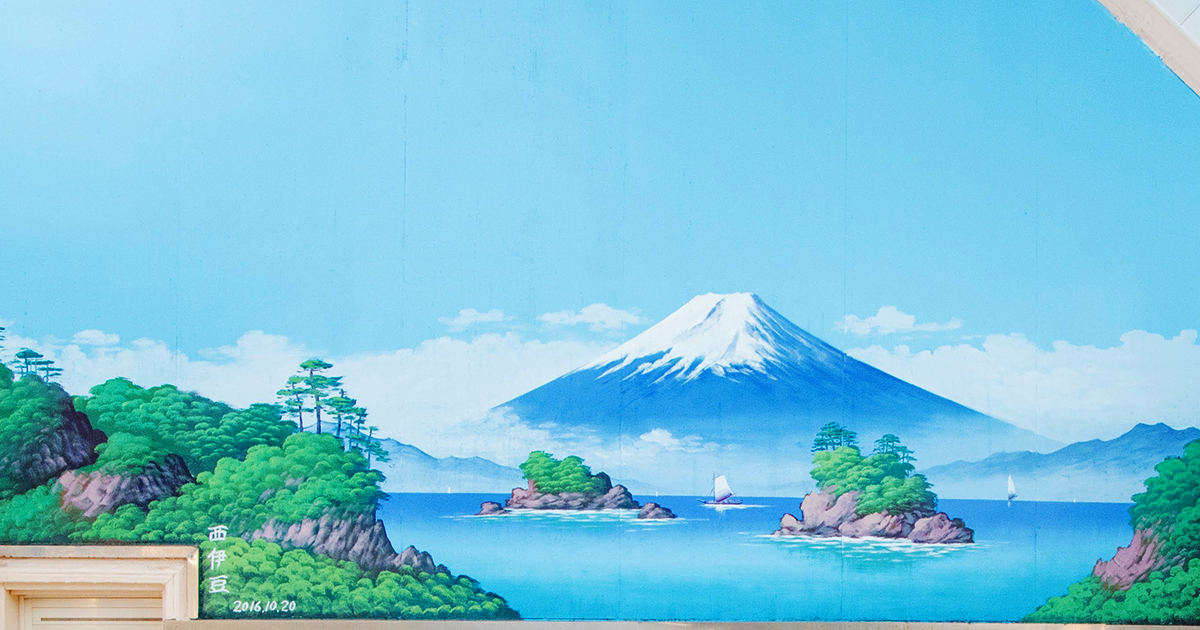
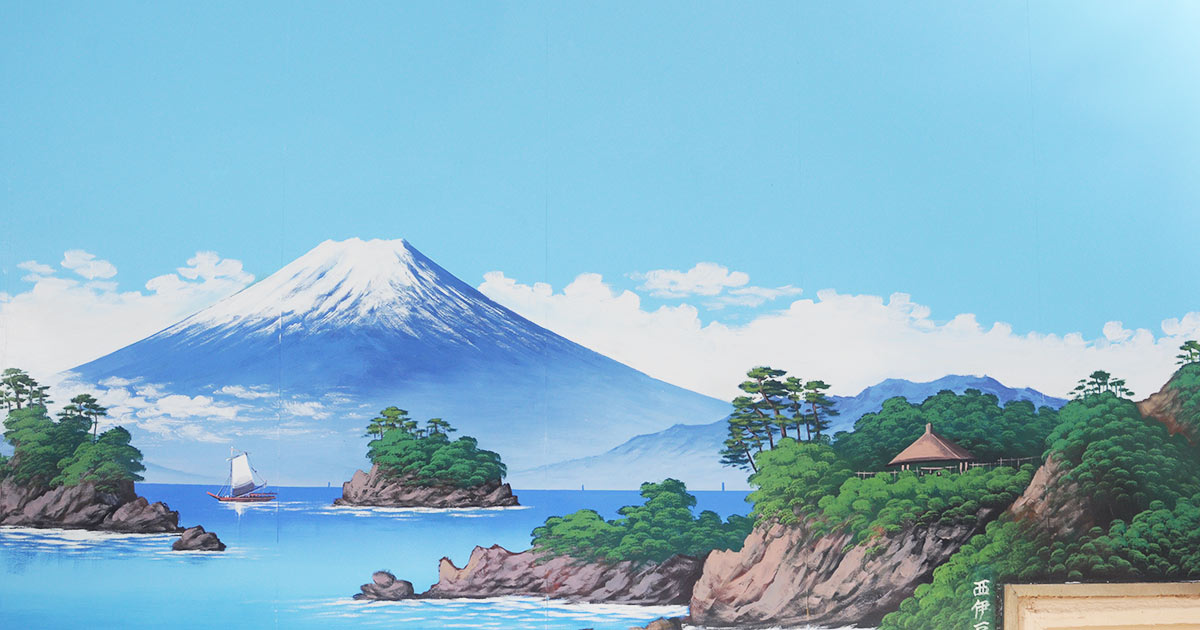
メインビジュアル差し替え

diff --git a/build/styles/article.css b/build/styles/article.css
@@ -1,1 +1,1 @@
-@charset 'UTF-8';.MainVisual{position:relative;padding-bottom:30%;background-position:center 0;-webkit-background-size:cover;background-size:cover}@media screen and (max-width:700px){.MainVisual{padding-bottom:80%;-webkit-background-size:200% 200%;background-size:200%}}.MainVisual__title{font-family:'Kokoro',YuMincho,'Yu Mincho',serif;font-size:5rem;position:absolute;top:0;left:0;display:-webkit-box;display:-webkit-flex;display:flex;width:100%;height:100%;text-align:center;color:#fff;-webkit-box-pack:center;-webkit-justify-content:center;justify-content:center;-webkit-box-align:center;-webkit-align-items:center;align-items:center}@media screen and (max-width:700px){.MainVisual__title{font-size:4rem}}.MainVisual__title>a{color:#fff}.MainVisual__image{width:100%;padding-bottom:20%}@media screen and (max-width:700px){.CategoryNavigation{position:relative;overflow:hidden;height:100px}}.CategoryNavigation__items{display:-webkit-box;display:-webkit-flex;display:flex;margin:30px auto 50px;-webkit-box-align:center;-webkit-align-items:center;align-items:center;-webkit-box-pack:center;-webkit-justify-content:center;justify-content:center}@media screen and (max-width:700px){.CategoryNavigation__items{margin:30px 20px;white-space:nowrap}}.CategoryNavigation__item{margin:0 20px}@media screen and (max-width:700px){.CategoryNavigation__item{margin-right:20px;margin-left:0}.CategoryNavigation__item:last-child{margin-right:0}}.CategoryNavigation__item.is-active>a::after{border-bottom:solid 1px #4a4a4a}.CategoryNavigation__item>a{font-size:1.4rem;display:block;padding:20px 20px 5px;text-align:center}@media screen and (max-width:700px){.CategoryNavigation__item>a{padding:12px 0}}.CategoryNavigation__item>a:link,.CategoryNavigation__item>a:visited{color:#4a4a4a}.CategoryNavigation__item>a::after{display:block;padding-bottom:15px;content:''}.Article__inner{width:800px;margin:0 auto}@media screen and (max-width:800px){.Article__inner{width:auto;margin:0 20px}}.Article__titleWrapper{margin:30px 0}.Article__titleWrapper .SocialButton{margin-top:20px;-webkit-box-pack:center;-webkit-justify-content:center;justify-content:center}.Article__titleInfo{text-align:center;vertical-align:middle;letter-spacing:.1em}.Article__titleCategory{font-size:1.2rem;line-height:1;display:inline-block;margin-right:10px;padding:4px 6px;letter-spacing:0;color:#fff;background-color:#ca6492}.Article__titleCategory--event{background-color:#9b4124}.Article__titleCategory--news{background-color:#1a274b}.Article__titleCategory--interview{background-color:#0b7751}.Article__titleDate{display:inline-block;margin-right:10px;color:#4a4a4a}@media screen and (max-width:700px){.Article__titleDate{margin-right:0}}.Article__titleAuthorName{font-size:1.2rem;display:inline-block;margin-top:20px;color:#4a4a4a}@media screen and (max-width:700px){.Article__titleAuthorName{display:block}}.Article__main p>a,.Article__titleAuthorName>a:link,.Article__titleAuthorName>a:visited,.Article__titleSeriesName>a:link,.Article__titleSeriesName>a:visited,.Article__titleTags>li>a{-webkit-transition:ease .3s;transition:ease .3s;color:#6f6f6f;border-bottom:dashed 1px #aaa}.Article__main p>a:hover,.Article__tableWrapper table td>a:hover,.Article__tableWrapper table th>a:hover,.Article__titleAuthorName>a:link:hover,.Article__titleAuthorName>a:visited:hover,.Article__titleSeriesName>a:link:hover,.Article__titleSeriesName>a:visited:hover,.Article__titleTags>li>a:hover,.Profile__nameJp>a:link:hover,.Profile__nameJp>a:visited:hover{color:#999}.Article__titleSeriesName{display:inline-block;margin-left:10px}.Article__titleTags{font-size:1.2rem;margin-top:15px}.Article__titleTags>li{display:inline-block;margin-right:10px}.Article__titleTags>li>a:before{content:'#';color:#999}.Article__headingLv1{font-family:'Kokoro',YuMincho,'Yu Mincho',serif;font-size:4rem;margin:50px 0;text-align:center;color:#4a4a4a}@media screen and (max-width:700px){.Article__headingLv1{font-size:3rem;margin:20px 0}}.Article__main h2{font-family:'ヒラギノ明朝 ProN W3','HiraMinProN-W3','Yu Mincho','YuMincho',serif;font-size:2.6rem;line-height:1.4;margin:120px 0 60px;color:#4a4a4a}@media screen and (max-width:700px){.Article__main h2{font-size:2rem;margin:40px 0 30px}}.Article__main h3{font-size:2rem;font-weight:700;line-height:1.4;margin:40px 0 30px;color:#4a4a4a}@media screen and (max-width:700px){.Article__main h3{font-size:1.6rem;margin:30px 0 20px}}.Article__main blockquote.message,.Article__main p{line-height:1.875;margin:20px 0 30px;letter-spacing:.1em}.Article__main li,.Article__main p{font-size:1.6rem;color:#4a4a4a}@media screen and (max-width:700px){.Article__main p{font-size:1.4rem}}.Article__main p+.Article__main p{margin-top:-20px}.Article__main p>a{line-height:1.3}.Article__main p.lead,.CategoryNavigation__item>a{font-family:'Yu Gothic',YuGothic,sans-serif}.Article__main li{line-height:1.875;letter-spacing:.1em}@media screen and (max-width:700px){.Article__main li{font-size:1.4rem}}.Article__main li:before{content:'・'}.Article__main blockquote.message,.Article__main li,.Article__main p,.Article__tableWrapper table{font-family:'ヒラギノ明朝 ProN W3','HiraMinProN-W3','Yu Mincho','YuMincho',serif}.Article__main blockquote.message{font-style:italic;position:relative;padding:20px 40px;color:#646464}@media screen and (max-width:700px){.Article__main blockquote.message{font-size:1.4rem;padding:20px 30px}}.Article__main blockquote.message::after,.Article__main blockquote.message::before{font-family:'Georgia',serif;font-size:5rem;line-height:1;position:absolute;color:#e4e4e4}.Article__main blockquote.message::before{top:10px;left:10px;content:'“'}@media screen and (max-width:700px){.Article__main blockquote.message::before{top:0;left:0}}.Article__main blockquote.message::after{right:10px;bottom:-20px;content:'”'}@media screen and (max-width:700px){.Article__main blockquote.message::after{right:0}.Article__tableWrapper{margin-right:-20px;margin-left:-20px}}.Article__tableWrapper table{width:100%;margin-bottom:60px;border-collapse:collapse;color:#4a4a4a;border-top:1px dotted #4a4a4a}@media screen and (max-width:700px){.Article__tableWrapper table{font-size:1.4rem}}.Article__tableWrapper table thead td,.Article__tableWrapper table thead th{border-bottom:2px solid #4a4a4a}.Article__tableWrapper table,.Article__tableWrapper table tbody td,.Article__tableWrapper table tbody th{border-bottom:1px dotted #4a4a4a}.Article__tableWrapper table tbody tr:last-child td,.Article__tableWrapper table tbody tr:last-child th{border:none}.Article__tableWrapper table td,.Article__tableWrapper table th{line-height:1.4;padding:20px}.Article__tableWrapper table td>a,.Article__tableWrapper table th>a,.Profile__nameJp>a:link,.Profile__nameJp>a:visited{-webkit-transition:ease .3s;transition:ease .3s;color:#6f6f6f;border-bottom:dashed 1px #aaa}@media screen and (max-width:700px){.Article__tableWrapper table td,.Article__tableWrapper table th{min-width:80px;padding:20px 10px}}.Article__tableWrapper table th{font-weight:700}.Article__innerImage{margin-bottom:60px}@media screen and (max-width:700px){.Article__innerImage{margin-right:-20px;margin-bottom:30px;margin-left:-20px}}.Article__innerImage>img{width:100%}.Article__caption{font-size:1.4rem;margin-top:10px;color:#999}@media screen and (max-width:700px){.Article__caption{font-size:1.2rem;margin-left:10px}}.Article__photoWrapper{position:relative;overflow:hidden}.Article__photoMain{overflow:hidden;width:100%;padding-bottom:50%;background-repeat:no-repeat;background-position:center;-webkit-background-size:cover;background-size:cover}.Article__photoMain.is-animate{-webkit-animation:mainvisual-animation 4s linear;animation:mainvisual-animation 4s linear}@media screen and (max-width:700px){.Article__photoMain{padding-bottom:100%}.Article__photoMain.is-animate{-webkit-animation:mainvisual-animation 2s linear;animation:mainvisual-animation 2s linear}}.Article__defList{margin:20px 0}.Article__defListRow{font-family:'ヒラギノ明朝 ProN W3','HiraMinProN-W3','Yu Mincho','YuMincho',serif;font-size:1.6rem;line-height:1.875;display:-webkit-box;display:-webkit-flex;display:flex;letter-spacing:.1em;color:#4a4a4a}@media screen and (max-width:700px){.Article__defListRow{font-size:1.4rem;display:block;margin:40px 0}}.Article__defListRow>dd,.Article__defListRow>dt{display:block;padding:20px 0}@media screen and (max-width:700px){.Article__defListRow>dd,.Article__defListRow>dt{padding:0}}.Article__defListRow>dt{font-weight:700;width:200px}.Article__defListRow>dd{-webkit-box-flex:1;-webkit-flex:1;flex:1}h2+.Article__defList,h2+.Article__tableWrapper{margin-top:-30px}@media screen and (max-width:700px){h2+.Article__defList,h2+.Article__tableWrapper{margin-top:-10px}}.Profile{display:-webkit-box;display:-webkit-flex;display:flex;margin:60px 0}@media screen and (max-width:700px){.Profile{text-align:center;-webkit-box-orient:vertical;-webkit-box-direction:normal;-webkit-flex-flow:column nowrap;flex-flow:column nowrap;-webkit-box-align:center;-webkit-align-items:center;align-items:center}}.Profile__photo{width:100px;height:100px;margin-top:15px;margin-right:30px;border-radius:50%;background-color:gray;background-repeat:no-repeat;-webkit-background-size:cover;background-size:cover}@media screen and (max-width:700px){.Profile__photo{width:120px;height:120px;margin-top:0;margin-right:0;margin-bottom:15px}}.Profile__role{font-size:1.2rem;display:inline-block;padding:2px 5px;color:#4a4a4a;border:solid 1px #4a4a4a}.Profile__nameJp{font-size:2.4rem;margin:15px 0;color:#4a4a4a}.Profile__nameJp>a:link,.Profile__nameJp>a:visited{color:#4a4a4a}.Profile__nameSub{font-size:1.6rem;line-height:1.4;margin:-10px 0 15px;color:#4a4a4a}.Profile__job,.Profile__nameEn{display:inline-block}.Profile__job::before{content:' ／'}.Profile__text{font-size:1.4rem;line-height:1.66667;margin:15px 0;letter-spacing:.1em;color:#4a4a4a}.Profile__links,.Profile__text{text-align:left}.Profile__link{display:inline-block;margin-right:15px;margin-bottom:15px}.Profile__link::after{display:inline-block;margin-left:10px;content:'／'}.AuthorPageProfile__link:last-child::after,.Profile__link:last-child::after{display:none}.Profile__link>a{font-size:1.4rem;display:inline-block;padding-left:25px;-webkit-transition:opacity .5s ease;transition:opacity .5s ease;color:#4b4b4b;background-repeat:no-repeat;background-position:left center;-webkit-background-size:18px 18px;background-size:18px}.AuthorPageProfile__link>a:hover,.Profile__link>a:hover{opacity:.7}.Profile__link--facebook>a{background-image:url(../images/standalone/common/ico_facebook.svg)}.Profile__link--twitter>a{background-image:url(../images/standalone/common/ico_twitter.svg)}.Profile__link--instagram>a{background-image:url(../images/standalone/common/ico_instagram.svg)}.Profile__link--web>a{background-image:url(../images/standalone/common/ico_web.svg)}.AuthorPageProfile{display:-webkit-box;display:-webkit-flex;display:flex;width:800px;margin:50px auto;-webkit-box-orient:vertical;-webkit-box-direction:normal;-webkit-flex-flow:column nowrap;flex-flow:column nowrap;-webkit-box-align:center;-webkit-align-items:center;align-items:center}@media screen and (max-width:700px){.AuthorPageProfile{width:auto;margin-right:20px;margin-left:20px}}.AuthorPageProfile__photo{width:200px;height:200px;margin-bottom:15px;border-radius:50%;background-color:gray;background-repeat:no-repeat;-webkit-background-size:cover;background-size:cover}@media screen and (max-width:700px){.AuthorPageProfile__photo{width:150px;height:150px}}.AuthorPageProfile__nameJp{font-family:'Kokoro',YuMincho,'Yu Mincho',serif;font-size:5rem;margin:15px 0;color:#4a4a4a}@media screen and (max-width:700px){.AuthorPageProfile__nameJp{font-size:3.5rem}}.AuthorPageProfile__nameSub{font-size:1.6rem;line-height:1.4;margin:-10px 0 15px;color:#4a4a4a}.AuthorPageProfile__job,.AuthorPageProfile__nameEn{display:inline-block}.AuthorPageProfile__job::before{content:' ／'}.AuthorPageProfile__text{font-size:1.4rem;line-height:1.66667;margin:50px 0;letter-spacing:.1em;color:#4a4a4a}@media screen and (max-width:700px){.AuthorPageProfile__text{margin:30px 0}}.AuthorPageProfile__link{display:inline-block;margin-right:15px;margin-bottom:15px}@media screen and (max-width:700px){.AuthorPageProfile__link{margin-bottom:10px}}.AuthorPageProfile__link::after{display:inline-block;margin-left:10px;content:'／'}.AuthorPageProfile__link>a{font-size:1.4rem;display:inline-block;padding-left:25px;-webkit-transition:opacity .5s ease;transition:opacity .5s ease;color:#4b4b4b;background-repeat:no-repeat;background-position:left center;-webkit-background-size:18px 18px;background-size:18px}.AuthorPageProfile__link--facebook>a{background-image:url(../images/standalone/common/ico_facebook.svg)}.AuthorPageProfile__link--twitter>a{background-image:url(../images/standalone/common/ico_twitter.svg)}.AuthorPageProfile__link--instagram>a{background-image:url(../images/standalone/common/ico_instagram.svg)}.AuthorPageProfile__link--web>a{background-image:url(../images/standalone/common/ico_web.svg)}.Module--fixWidth{width:800px;margin-right:auto;margin-left:auto}@media screen and (max-width:700px){.Module--fixWidth{width:auto;margin:20px}}.Module__heading{font-family:'Kokoro',YuMincho,'Yu Mincho',serif;font-size:4rem;margin:50px 0;text-align:center;color:#4a4a4a}@media screen and (max-width:700px){.Module__heading{font-size:3rem;margin:20px 0}}.Module__headingTextBlock{display:inline-block}.Notice{margin:50px 0 100px}.Notice__text{font-family:'Kokoro',YuMincho,'Yu Mincho',serif;font-size:1.6rem;text-align:center;color:#4a4a4a}
+@charset 'UTF-8';.MainVisual{position:relative;padding-bottom:30%;background-position:center;-webkit-background-size:cover;background-size:cover}@media screen and (max-width:700px){.MainVisual{padding-bottom:80%;-webkit-background-size:200% 200%;background-size:200%}}.MainVisual__title{font-family:'Kokoro',YuMincho,'Yu Mincho',serif;font-size:5rem;position:absolute;top:0;left:0;display:-webkit-box;display:-webkit-flex;display:flex;width:100%;height:100%;text-align:center;color:#fff;-webkit-box-pack:center;-webkit-justify-content:center;justify-content:center;-webkit-box-align:center;-webkit-align-items:center;align-items:center}@media screen and (max-width:700px){.MainVisual__title{font-size:4rem}}.MainVisual__title>a{color:#fff}.MainVisual__image{width:100%;padding-bottom:20%}@media screen and (max-width:700px){.CategoryNavigation{position:relative;overflow:hidden;height:100px}}.CategoryNavigation__items{display:-webkit-box;display:-webkit-flex;display:flex;margin:30px auto 50px;-webkit-box-align:center;-webkit-align-items:center;align-items:center;-webkit-box-pack:center;-webkit-justify-content:center;justify-content:center}@media screen and (max-width:700px){.CategoryNavigation__items{margin:30px 20px;white-space:nowrap}}.CategoryNavigation__item{margin:0 20px}@media screen and (max-width:700px){.CategoryNavigation__item{margin-right:20px;margin-left:0}.CategoryNavigation__item:last-child{margin-right:0}}.CategoryNavigation__item.is-active>a::after{border-bottom:solid 1px #4a4a4a}.CategoryNavigation__item>a{font-size:1.4rem;display:block;padding:20px 20px 5px;text-align:center}@media screen and (max-width:700px){.CategoryNavigation__item>a{padding:12px 0}}.CategoryNavigation__item>a:link,.CategoryNavigation__item>a:visited{color:#4a4a4a}.CategoryNavigation__item>a::after{display:block;padding-bottom:15px;content:''}.Article__inner{width:800px;margin:0 auto}@media screen and (max-width:800px){.Article__inner{width:auto;margin:0 20px}}.Article__titleWrapper{margin:30px 0}.Article__titleWrapper .SocialButton{margin-top:20px;-webkit-box-pack:center;-webkit-justify-content:center;justify-content:center}.Article__titleInfo{text-align:center;vertical-align:middle;letter-spacing:.1em}.Article__titleCategory{font-size:1.2rem;line-height:1;display:inline-block;margin-right:10px;padding:4px 6px;letter-spacing:0;color:#fff;background-color:#ca6492}.Article__titleCategory--event{background-color:#9b4124}.Article__titleCategory--news{background-color:#1a274b}.Article__titleCategory--interview{background-color:#0b7751}.Article__titleDate{display:inline-block;margin-right:10px;color:#4a4a4a}@media screen and (max-width:700px){.Article__titleDate{margin-right:0}}.Article__titleAuthorName{font-size:1.2rem;display:inline-block;margin-top:20px;color:#4a4a4a}@media screen and (max-width:700px){.Article__titleAuthorName{display:block}}.Article__main p>a,.Article__titleAuthorName>a:link,.Article__titleAuthorName>a:visited,.Article__titleSeriesName>a:link,.Article__titleSeriesName>a:visited,.Article__titleTags>li>a{-webkit-transition:ease .3s;transition:ease .3s;color:#6f6f6f;border-bottom:dashed 1px #aaa}.Article__main p>a:hover,.Article__tableWrapper table td>a:hover,.Article__tableWrapper table th>a:hover,.Article__titleAuthorName>a:link:hover,.Article__titleAuthorName>a:visited:hover,.Article__titleSeriesName>a:link:hover,.Article__titleSeriesName>a:visited:hover,.Article__titleTags>li>a:hover,.Profile__nameJp>a:link:hover,.Profile__nameJp>a:visited:hover{color:#999}.Article__titleSeriesName{display:inline-block;margin-left:10px}.Article__titleTags{font-size:1.2rem;margin-top:15px}.Article__titleTags>li{display:inline-block;margin-right:10px}.Article__titleTags>li>a:before{content:'#';color:#999}.Article__headingLv1{font-family:'Kokoro',YuMincho,'Yu Mincho',serif;font-size:4rem;margin:50px 0;text-align:center;color:#4a4a4a}@media screen and (max-width:700px){.Article__headingLv1{font-size:3rem;margin:20px 0}}.Article__main h2{font-family:'ヒラギノ明朝 ProN W3','HiraMinProN-W3','Yu Mincho','YuMincho',serif;font-size:2.6rem;line-height:1.4;margin:120px 0 60px;color:#4a4a4a}@media screen and (max-width:700px){.Article__main h2{font-size:2rem;margin:40px 0 30px}}.Article__main h3{font-size:2rem;font-weight:700;line-height:1.4;margin:40px 0 30px;color:#4a4a4a}@media screen and (max-width:700px){.Article__main h3{font-size:1.6rem;margin:30px 0 20px}}.Article__main blockquote.message,.Article__main p{line-height:1.875;margin:20px 0 30px;letter-spacing:.1em}.Article__main li,.Article__main p{font-size:1.6rem;color:#4a4a4a}@media screen and (max-width:700px){.Article__main p{font-size:1.4rem}}.Article__main p+.Article__main p{margin-top:-20px}.Article__main p>a{line-height:1.3}.Article__main p.lead,.CategoryNavigation__item>a{font-family:'Yu Gothic',YuGothic,sans-serif}.Article__main li{line-height:1.875;letter-spacing:.1em}@media screen and (max-width:700px){.Article__main li{font-size:1.4rem}}.Article__main li:before{content:'・'}.Article__main blockquote.message,.Article__main li,.Article__main p,.Article__tableWrapper table{font-family:'ヒラギノ明朝 ProN W3','HiraMinProN-W3','Yu Mincho','YuMincho',serif}.Article__main blockquote.message{font-style:italic;position:relative;padding:20px 40px;color:#646464}@media screen and (max-width:700px){.Article__main blockquote.message{font-size:1.4rem;padding:20px 30px}}.Article__main blockquote.message::after,.Article__main blockquote.message::before{font-family:'Georgia',serif;font-size:5rem;line-height:1;position:absolute;color:#e4e4e4}.Article__main blockquote.message::before{top:10px;left:10px;content:'“'}@media screen and (max-width:700px){.Article__main blockquote.message::before{top:0;left:0}}.Article__main blockquote.message::after{right:10px;bottom:-20px;content:'”'}@media screen and (max-width:700px){.Article__main blockquote.message::after{right:0}.Article__tableWrapper{margin-right:-20px;margin-left:-20px}}.Article__tableWrapper table{width:100%;margin-bottom:60px;border-collapse:collapse;color:#4a4a4a;border-top:1px dotted #4a4a4a}@media screen and (max-width:700px){.Article__tableWrapper table{font-size:1.4rem}}.Article__tableWrapper table thead td,.Article__tableWrapper table thead th{border-bottom:2px solid #4a4a4a}.Article__tableWrapper table,.Article__tableWrapper table tbody td,.Article__tableWrapper table tbody th{border-bottom:1px dotted #4a4a4a}.Article__tableWrapper table tbody tr:last-child td,.Article__tableWrapper table tbody tr:last-child th{border:none}.Article__tableWrapper table td,.Article__tableWrapper table th{line-height:1.4;padding:20px}.Article__tableWrapper table td>a,.Article__tableWrapper table th>a,.Profile__nameJp>a:link,.Profile__nameJp>a:visited{-webkit-transition:ease .3s;transition:ease .3s;color:#6f6f6f;border-bottom:dashed 1px #aaa}@media screen and (max-width:700px){.Article__tableWrapper table td,.Article__tableWrapper table th{min-width:80px;padding:20px 10px}}.Article__tableWrapper table th{font-weight:700}.Article__innerImage{margin-bottom:60px}@media screen and (max-width:700px){.Article__innerImage{margin-right:-20px;margin-bottom:30px;margin-left:-20px}}.Article__innerImage>img{width:100%}.Article__caption{font-size:1.4rem;margin-top:10px;color:#999}@media screen and (max-width:700px){.Article__caption{font-size:1.2rem;margin-left:10px}}.Article__photoWrapper{position:relative;overflow:hidden}.Article__photoMain{overflow:hidden;width:100%;padding-bottom:50%;background-repeat:no-repeat;background-position:center;-webkit-background-size:cover;background-size:cover}.Article__photoMain.is-animate{-webkit-animation:mainvisual-animation 4s linear;animation:mainvisual-animation 4s linear}@media screen and (max-width:700px){.Article__photoMain{padding-bottom:100%}.Article__photoMain.is-animate{-webkit-animation:mainvisual-animation 2s linear;animation:mainvisual-animation 2s linear}}.Article__defList{margin:20px 0}.Article__defListRow{font-family:'ヒラギノ明朝 ProN W3','HiraMinProN-W3','Yu Mincho','YuMincho',serif;font-size:1.6rem;line-height:1.875;display:-webkit-box;display:-webkit-flex;display:flex;letter-spacing:.1em;color:#4a4a4a}@media screen and (max-width:700px){.Article__defListRow{font-size:1.4rem;display:block;margin:40px 0}}.Article__defListRow>dd,.Article__defListRow>dt{display:block;padding:20px 0}@media screen and (max-width:700px){.Article__defListRow>dd,.Article__defListRow>dt{padding:0}}.Article__defListRow>dt{font-weight:700;width:200px}.Article__defListRow>dd{-webkit-box-flex:1;-webkit-flex:1;flex:1}h2+.Article__defList,h2+.Article__tableWrapper{margin-top:-30px}@media screen and (max-width:700px){h2+.Article__defList,h2+.Article__tableWrapper{margin-top:-10px}}.Profile{display:-webkit-box;display:-webkit-flex;display:flex;margin:60px 0}@media screen and (max-width:700px){.Profile{text-align:center;-webkit-box-orient:vertical;-webkit-box-direction:normal;-webkit-flex-flow:column nowrap;flex-flow:column nowrap;-webkit-box-align:center;-webkit-align-items:center;align-items:center}}.Profile__photo{width:100px;height:100px;margin-top:15px;margin-right:30px;border-radius:50%;background-color:gray;background-repeat:no-repeat;-webkit-background-size:cover;background-size:cover}@media screen and (max-width:700px){.Profile__photo{width:120px;height:120px;margin-top:0;margin-right:0;margin-bottom:15px}}.Profile__role{font-size:1.2rem;display:inline-block;padding:2px 5px;color:#4a4a4a;border:solid 1px #4a4a4a}.Profile__nameJp{font-size:2.4rem;margin:15px 0;color:#4a4a4a}.Profile__nameJp>a:link,.Profile__nameJp>a:visited{color:#4a4a4a}.Profile__nameSub{font-size:1.6rem;line-height:1.4;margin:-10px 0 15px;color:#4a4a4a}.Profile__job,.Profile__nameEn{display:inline-block}.Profile__job::before{content:' ／'}.Profile__text{font-size:1.4rem;line-height:1.66667;margin:15px 0;letter-spacing:.1em;color:#4a4a4a}.Profile__links,.Profile__text{text-align:left}.Profile__link{display:inline-block;margin-right:15px;margin-bottom:15px}.Profile__link::after{display:inline-block;margin-left:10px;content:'／'}.AuthorPageProfile__link:last-child::after,.Profile__link:last-child::after{display:none}.Profile__link>a{font-size:1.4rem;display:inline-block;padding-left:25px;-webkit-transition:opacity .5s ease;transition:opacity .5s ease;color:#4b4b4b;background-repeat:no-repeat;background-position:left center;-webkit-background-size:18px 18px;background-size:18px}.AuthorPageProfile__link>a:hover,.Profile__link>a:hover{opacity:.7}.Profile__link--facebook>a{background-image:url(../images/standalone/common/ico_facebook.svg)}.Profile__link--twitter>a{background-image:url(../images/standalone/common/ico_twitter.svg)}.Profile__link--instagram>a{background-image:url(../images/standalone/common/ico_instagram.svg)}.Profile__link--web>a{background-image:url(../images/standalone/common/ico_web.svg)}.AuthorPageProfile{display:-webkit-box;display:-webkit-flex;display:flex;width:800px;margin:50px auto;-webkit-box-orient:vertical;-webkit-box-direction:normal;-webkit-flex-flow:column nowrap;flex-flow:column nowrap;-webkit-box-align:center;-webkit-align-items:center;align-items:center}@media screen and (max-width:700px){.AuthorPageProfile{width:auto;margin-right:20px;margin-left:20px}}.AuthorPageProfile__photo{width:200px;height:200px;margin-bottom:15px;border-radius:50%;background-color:gray;background-repeat:no-repeat;-webkit-background-size:cover;background-size:cover}@media screen and (max-width:700px){.AuthorPageProfile__photo{width:150px;height:150px}}.AuthorPageProfile__nameJp{font-family:'Kokoro',YuMincho,'Yu Mincho',serif;font-size:5rem;margin:15px 0;color:#4a4a4a}@media screen and (max-width:700px){.AuthorPageProfile__nameJp{font-size:3.5rem}}.AuthorPageProfile__nameSub{font-size:1.6rem;line-height:1.4;margin:-10px 0 15px;color:#4a4a4a}.AuthorPageProfile__job,.AuthorPageProfile__nameEn{display:inline-block}.AuthorPageProfile__job::before{content:' ／'}.AuthorPageProfile__text{font-size:1.4rem;line-height:1.66667;margin:50px 0;letter-spacing:.1em;color:#4a4a4a}@media screen and (max-width:700px){.AuthorPageProfile__text{margin:30px 0}}.AuthorPageProfile__link{display:inline-block;margin-right:15px;margin-bottom:15px}@media screen and (max-width:700px){.AuthorPageProfile__link{margin-bottom:10px}}.AuthorPageProfile__link::after{display:inline-block;margin-left:10px;content:'／'}.AuthorPageProfile__link>a{font-size:1.4rem;display:inline-block;padding-left:25px;-webkit-transition:opacity .5s ease;transition:opacity .5s ease;color:#4b4b4b;background-repeat:no-repeat;background-position:left center;-webkit-background-size:18px 18px;background-size:18px}.AuthorPageProfile__link--facebook>a{background-image:url(../images/standalone/common/ico_facebook.svg)}.AuthorPageProfile__link--twitter>a{background-image:url(../images/standalone/common/ico_twitter.svg)}.AuthorPageProfile__link--instagram>a{background-image:url(../images/standalone/common/ico_instagram.svg)}.AuthorPageProfile__link--web>a{background-image:url(../images/standalone/common/ico_web.svg)}.Module--fixWidth{width:800px;margin-right:auto;margin-left:auto}@media screen and (max-width:700px){.Module--fixWidth{width:auto;margin:20px}}.Module__heading{font-family:'Kokoro',YuMincho,'Yu Mincho',serif;font-size:4rem;margin:50px 0;text-align:center;color:#4a4a4a}@media screen and (max-width:700px){.Module__heading{font-size:3rem;margin:20px 0}}.Module__headingTextBlock{display:inline-block}.Notice{margin:50px 0 100px}.Notice__text{font-family:'Kokoro',YuMincho,'Yu Mincho',serif;font-size:1.6rem;text-align:center;color:#4a4a4a}

diff --git a/src/styles/article.scss b/src/styles/article.scss
@@ -20,7 +20,7 @@
 }
 
 .MainVisual {
-  background-position: center 0;
+  background-position: center;
   background-size: cover;
   position: relative;
   padding-bottom: 30%;
